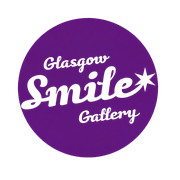
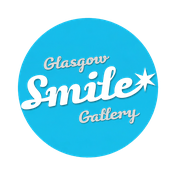
Switch brand from purple to blue — bright cyan + dark navy two-shade palette
- --brand-primary: #17BDE9 (bright cyan/turquoise from logo)
- --brand-dark: #0B3D5F (dark navy for emphasis/hierarchy)
- Apply CubeDental two-shade button logic: light primary for Book Now, dark navy for Find Us/hero/CTA
- Replace logo with blue version, remove background, regenerate favicons
- Update all purple references in styles.css and index.html inline styles
- Rename .curve-circle.purple to .curve-circle.blue

diff --git a/styles.css b/styles.css
@@ -80,14 +80,14 @@
 }
 
 :root {
-    --brand-primary: #8224e3;
-    --brand-accent: #8224e3;
-    --brand-dark: #4A1385;
-    --brand-light: #F3ECFD;
+    --brand-primary: #17BDE9;
+    --brand-accent: #17BDE9;
+    --brand-dark: #0B3D5F;
+    --brand-light: #E7F8FD;
     --brand-white: #FFFFFF;
     --brand-text: #2C2C2C;
-    --brand-muted: #8A7A94;
-    --brand-border: #E5DCF0;
+    --brand-muted: #5E7B8A;
+    --brand-border: #CFEBF5;
     --nav-shadow: 0 4px 30px rgba(0, 0, 0, 0.08);
     --radius-nav: 20px;
     --radius-btn: 10px;
@@ -192,26 +192,28 @@ body {
     transition: all 0.25s ease;
 }
 
+/* Light brand blue — primary commit action (Book Now) */
 .btn-primary {
     background: var(--brand-accent);
     color: white;
 }
 
 .btn-primary:hover {
-    background: #7020CC;
+    background: #0FA8D0;
     transform: translateY(-1px);
-    box-shadow: 0 4px 15px rgba(130, 36, 227, 0.35);
+    box-shadow: 0 4px 15px rgba(23, 189, 233, 0.35);
 }
 
+/* Dark navy — weight/hierarchy/emphasis (Find Us, Our Locations) */
 .btn-secondary {
-    background: #5E1AAA;
+    background: var(--brand-dark);
     color: white;
 }
 
 .btn-secondary:hover {
-    background: #4D1590;
+    background: #072C44;
     transform: translateY(-1px);
-    box-shadow: 0 4px 15px rgba(94, 26, 170, 0.35);
+    box-shadow: 0 4px 15px rgba(11, 61, 95, 0.35);
 }
 
 .btn-outline {
@@ -224,7 +226,7 @@ body {
     background: var(--brand-primary);
     color: white;
     transform: translateY(-1px);
-    box-shadow: 0 4px 15px rgba(130, 36, 227, 0.35);
+    box-shadow: 0 4px 15px rgba(23, 189, 233, 0.35);
 }
 
 .btn-dark {
@@ -237,9 +239,9 @@ body {
 }
 
 .btn-dark:hover {
-    background: #380F6B;
+    background: #072C44;
     transform: translateY(-2px);
-    box-shadow: 0 6px 20px rgba(74, 19, 133, 0.3);
+    box-shadow: 0 6px 20px rgba(11, 61, 95, 0.3);
 }
 
 .btn-lg {
@@ -271,7 +273,7 @@ body {
 .page-header {
     padding: 160px 40px 60px;
     text-align: center;
-    background: linear-gradient(135deg, var(--brand-light) 0%, rgba(130, 36, 227, 0.06) 100%);
+    background: linear-gradient(135deg, var(--brand-light) 0%, rgba(23, 189, 233, 0.06) 100%);
 }
 
 .page-header h1 {
@@ -344,7 +346,7 @@ body {
 
 a.card:hover {
     border-color: var(--brand-accent);
-    box-shadow: 0 8px 30px rgba(130, 36, 227, 0.1);
+    box-shadow: 0 8px 30px rgba(23, 189, 233, 0.1);
     transform: translateY(-2px);
 }
 
@@ -423,7 +425,7 @@ a.card:hover {
 }
 
 .price-table tbody tr:hover {
-    background: rgba(130, 36, 227, 0.04);
+    background: rgba(23, 189, 233, 0.04);
 }
 
 /* ── CTA BANNER ── */

diff --git a/index.html b/index.html
@@ -149,7 +149,7 @@
         }
 
         .btn-hero:hover {
-            background: #380F6B;
+            background: #072C44;
             transform: translateY(-2px);
             box-shadow: 0 6px 20px rgba(0, 0, 0, 0.3);
         }
@@ -192,8 +192,8 @@
             box-shadow: 0 4px 20px rgba(0, 0, 0, 0.1);
         }
 
-        .curve-circle.purple { background: #8224e3; }
-        .curve-circle.dark { background: #5E1AAA; }
+        .curve-circle.blue { background: #17BDE9; }
+        .curve-circle.dark { background: #0B3D5F; }
 
         .curve-circle svg {
             width: 24px;
@@ -250,7 +250,7 @@
             background: var(--brand-primary);
             color: white;
             transform: translateY(-4px);
-            box-shadow: 0 8px 24px rgba(130, 36, 227, 0.2);
+            box-shadow: 0 8px 24px rgba(23, 189, 233, 0.2);
         }
 
         .carousel-card:hover .carousel-card-title,
@@ -390,7 +390,7 @@
     <!-- Circle buttons on the curve -->
     <div class="curve-circles">
         <a href="https://maps.google.com/?q=23+Ashton+Road+Glasgow+G12+8SP" class="curve-circle-link" target="_blank" rel="noopener">
-            <div class="curve-circle purple">
+            <div class="curve-circle blue">
                 <svg xmlns="http://www.w3.org/2000/svg" fill="none" viewBox="0 0 24 24" stroke-width="2" stroke="currentColor"><path stroke-linecap="round" stroke-linejoin="round" d="M15 10.5a3 3 0 1 1-6 0 3 3 0 0 1 6 0Z" /><path stroke-linecap="round" stroke-linejoin="round" d="M19.5 10.5c0 7.142-7.5 11.25-7.5 11.25S4.5 17.642 4.5 10.5a7.5 7.5 0 0 1 15 0Z" /></svg>
                 How to<br>Find Us
             </div>
